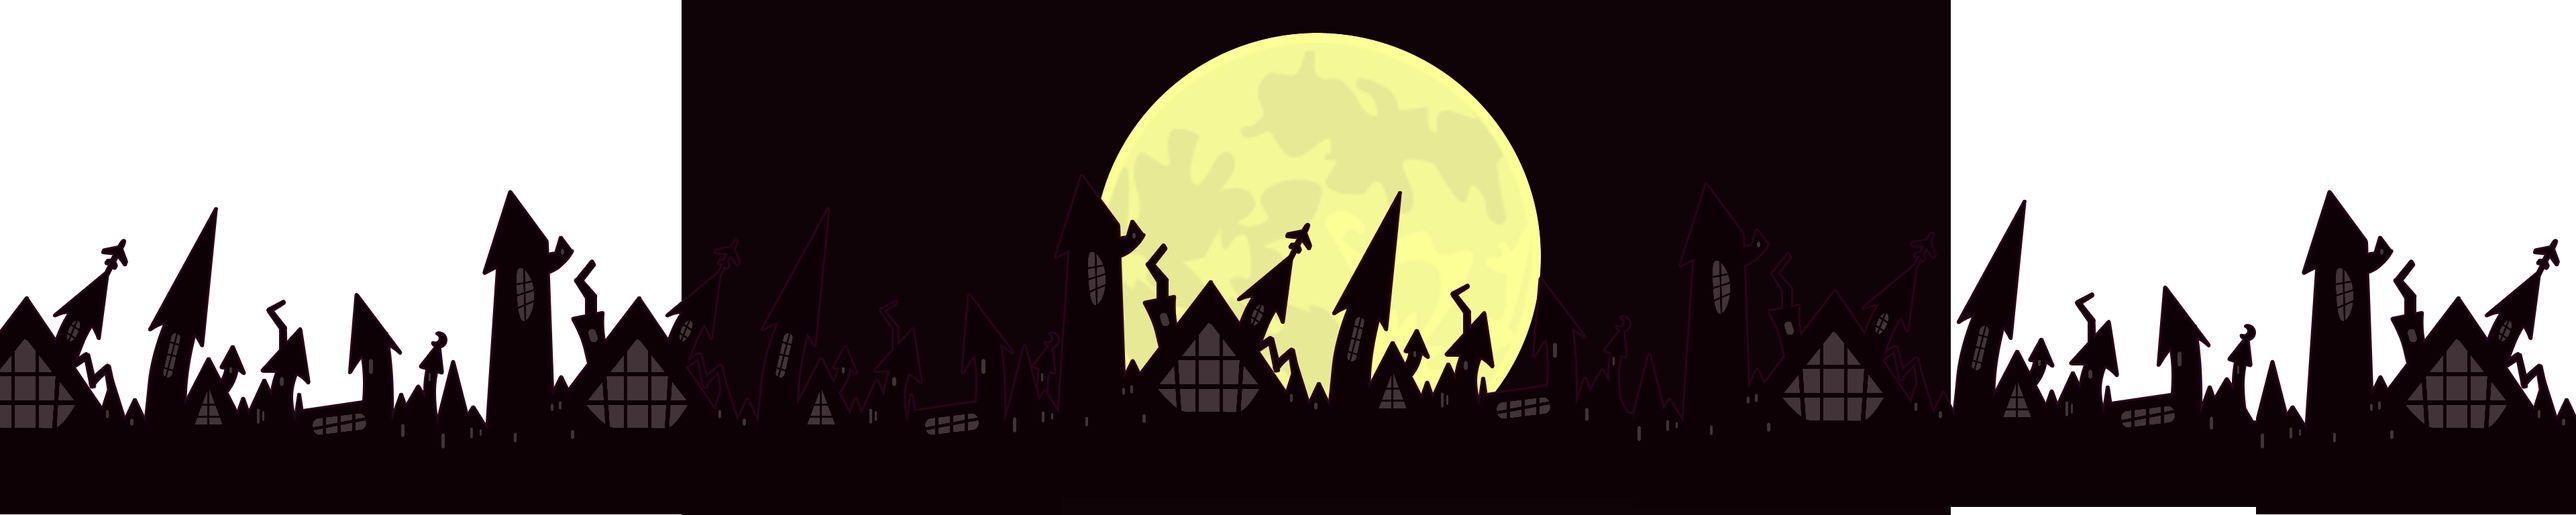
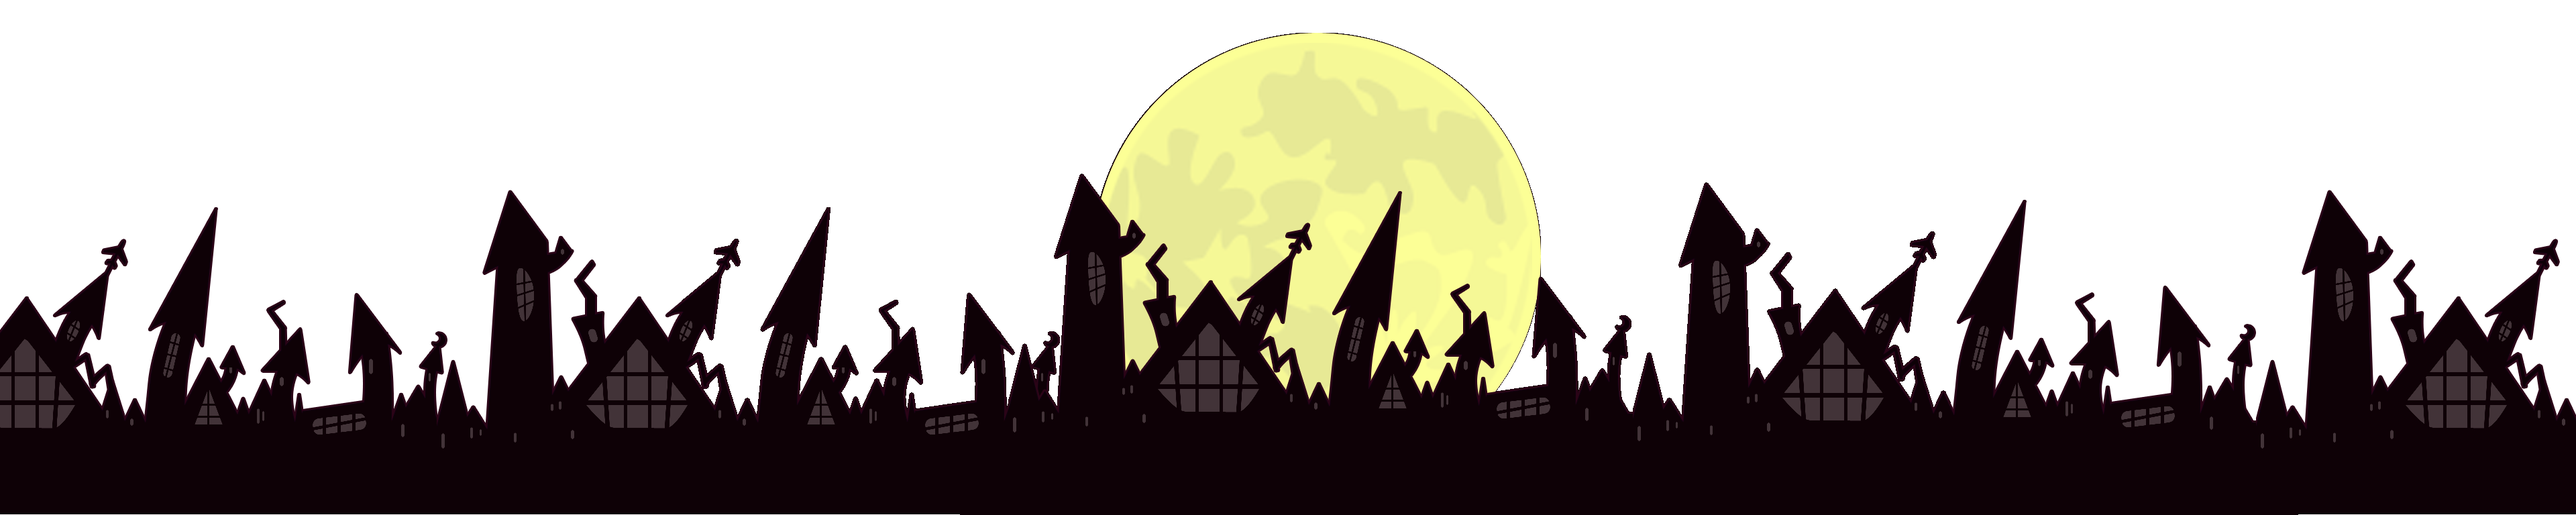
Small fixes to b-day image. For next year I 'spose

Changed region(s): [[0.25, 0.0, 0.7812, 0.8125], [0.75, 0.9688, 0.875, 1.0]]

diff --git a/QTfrontend/res/css/birthday.css b/QTfrontend/res/css/birthday.css
@@ -21,7 +21,7 @@ HWForm,QDialog {
 background-image: url(":/res/BackgroundBirthday.png");
 background-position: bottom center;
 background-repeat: repeat-x;
-background-color: black;
+background-color: #100308;
 }
 
 * {
